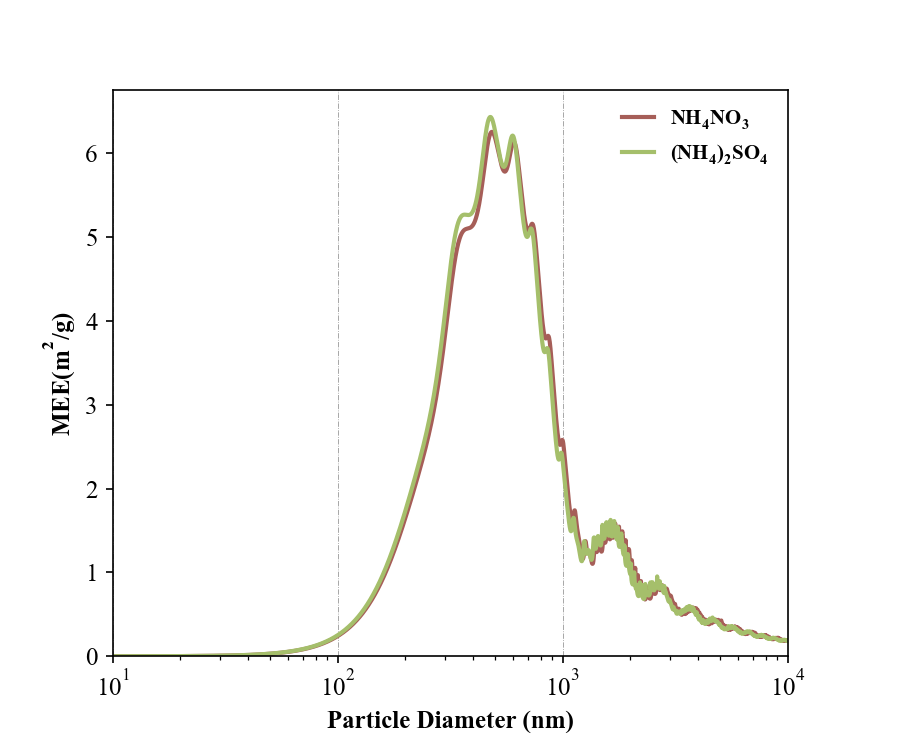
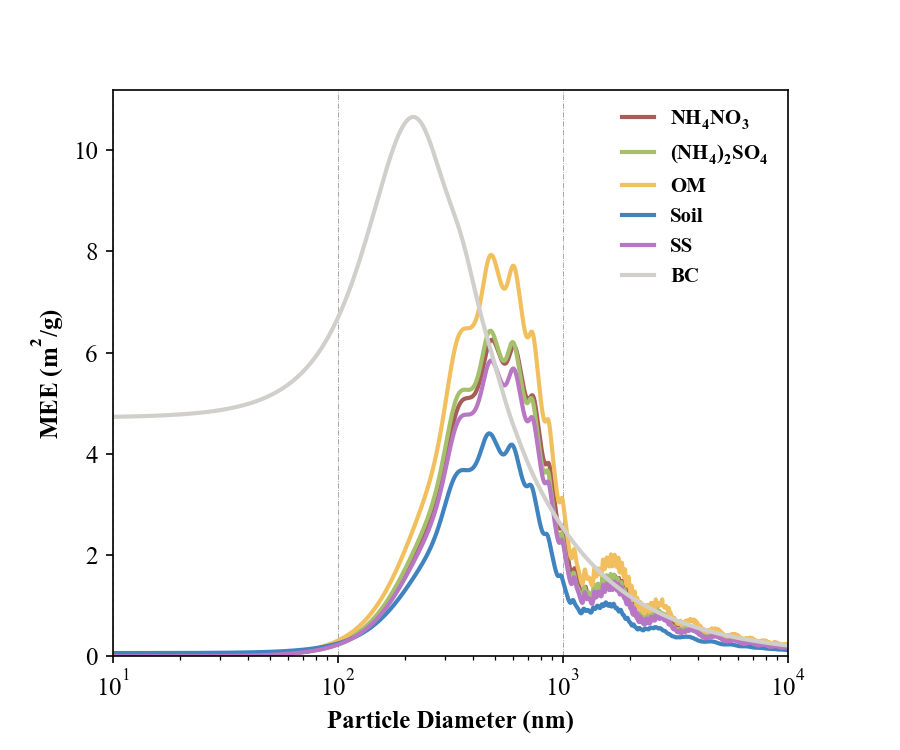
update

diff --git a/DataPlot/plot/optical/optical.py b/DataPlot/plot/optical/optical.py
@@ -16,7 +16,6 @@ __all__ = ['Q_plot',
            'response_surface',
            ]
 
-
 mapping_dic = {'AS': {'m': 1.53 + 0j, 'density': 1.73, 'label': fr'$NH_{4}NO_{3}$', 'color': '#A65E58'},
                'AN': {'m': 1.55 + 0j, 'density': 1.77, 'label': fr'$(NH_{4})_{2}SO_{4}$', 'color': '#A5BF6B'},
                'OM': {'m': 1.54 + 0j, 'density': 1.40, 'label': 'OM', 'color': '#F2BF5E'},
@@ -27,7 +26,8 @@ mapping_dic = {'AS': {'m': 1.53 + 0j, 'density': 1.73, 'label': fr'$NH_{4}NO_{3}
 
 
 @set_figure
-def Q_plot(species: Literal["AS", "AN", "OM", "Soil", "SS", "BC", "Water"] | list[Literal["AS", "AN", "OM", "Soil", "SS", "BC", "Water"]],
+def Q_plot(species: Literal["AS", "AN", "OM", "Soil", "SS", "BC", "Water"] | list[
+    Literal["AS", "AN", "OM", "Soil", "SS", "BC", "Water"]],
            x: Literal["dp", "sp"] = 'dp',
            y: Literal["Q", "MEE"] = "Q",
            mode: Literal["ext", "sca", "abs"] = 'ext',
@@ -73,14 +73,14 @@ def Q_plot(species: Literal["AS", "AN", "OM", "Soil", "SS", "BC", "Water"] | lis
     mode_mapping = {'ext': 0, 'sca': 1, 'abs': 2}
 
     xlabel_mapping = {'dp': 'Particle Diameter (nm)',
-                      'sp': '$Size parameter (\\alpha)$'}
+                      'sp': 'Size parameter (\\alpha)'}
 
-    ylabel_mapping = {'Q': {'ext': '$Extinction efficiency (Q_{{ext}})$',
-                            'sca': '$Scattering efficiency (Q_{{sca}})$',
-                            'abs': '$Absorption efficiency (Q_{{abs}})$'},
-                      'MEE': {'ext': '$MEE (m^2/g)$',
-                              'sca': '$MSE (m^2/g)$',
-                              'abs': '$MAE (m^2/g)$'}}
+    ylabel_mapping = {'Q': {'ext': r'$Extinction\ efficiency\ (Q_{ext})$',
+                            'sca': r'$Scattering\ efficiency\ (Q_{sca})$',
+                            'abs': r'$Absorption\ efficiency\ (Q_{abs})$'},
+                      'MEE': {'ext': r'$MEE\ (m^{2}/g)$',
+                              'sca': r'$MSE\ (m^{2}/g)$',
+                              'abs': r'$MAE\ (m^{2}/g)$'}}
 
     typ = mode_mapping.get(mode, None)
     xlabel = xlabel_mapping.get(x, None)
@@ -335,6 +335,7 @@ def response_surface(real_range=(1.33, 1.7),
     >>> response_surface(real_range=(1.4, 1.6), gmd_range=(100, 300), num=30, xlabel='Real Part (n)',
     ...                  ylabel='GMD (nm)', zlabel='Extinction (1/Mm)', title='Sensitivity Tests of Extinction')
     """
+
     def function(RI, GMD):
         Z = np.zeros_like(RI)  # 使用 np.zeros_like 可以確保 Z 和 RI 具有相同的形狀
 
@@ -372,6 +373,8 @@ def response_surface(real_range=(1.33, 1.7),
 
 
 if __name__ == '__main__':
-    # Q_plot(['AS', 'AN'], x='dp', y='MEE')
+    Q_plot(['AS', 'AN', 'OM', 'Soil', 'SS', 'BC'], x='dp', y='MEE')
+    Q_plot(['AS', 'AN', 'OM', 'Soil', 'SS', 'BC'], x='dp', y='Q')
+
     # RI_couple()
-    response_surface()
+    # response_surface()

diff --git a/DataPlot/process/script/PSD.py b/DataPlot/process/script/PSD.py
@@ -1,6 +1,6 @@
 from pathlib import Path
 
-import pandas as pd
+from pandas import concat, read_csv
 
 from DataPlot.process.core import *
 from DataPlot.process.script.SizeDist import SizeDist
@@ -42,11 +42,11 @@ class ParticleSizeDistProcessor(DataProcessor):
         self.psd = SizeDist(filename)
 
     def process_data(self, reset: bool = False, save_filename: Path | str = 'PSD.csv'):
-        # file = self.file_path / save_filename
-        # if file.exists() and not reset:
-        #     return read_csv(file, parse_dates=['Time']).set_index('Time')
+        file = self.file_path / save_filename
+        if file.exists() and not reset:
+            return read_csv(file, parse_dates=['Time']).set_index('Time')
 
-        result_df = pd.concat([
+        result_df = concat([
             SizeDist(data=self.psd.number(), weighting='n').properties(),
             SizeDist(data=self.psd.surface(save_filename=self.file_path / 'PSSD_dSdlogdp.csv'),
                      weighting='s').properties(),
@@ -71,11 +71,11 @@ class ExtinctionDistProcessor(DataProcessor):
                                               'ALWC_volume_ratio']]
 
     def process_data(self, reset: bool = False, save_filename: str | Path = 'PESD.csv'):
-        # file = self.file_path / save_filename
-        # if file.exists() and not reset:
-        #     return read_csv(file, parse_dates=['Time']).set_index('Time')
+        file = self.file_path / save_filename
+        if file.exists() and not reset:
+            return read_csv(file, parse_dates=['Time']).set_index('Time')
 
-        result_df = pd.concat([
+        result_df = concat([
             SizeDist(data=self.psd.extinction(self.RI, method='internal', result_type='extinction',
                                               save_filename=self.file_path / 'PESD_dextdlogdp_internal.csv'),
                      weighting='ext_in').properties(),
@@ -89,5 +89,5 @@ class ExtinctionDistProcessor(DataProcessor):
 
 
 if __name__ == '__main__':
-    df = ParticleSizeDistProcessor(filename='PNSD_dNdlogdp.csv').process_data(reset=True)
+    df = ParticleSizeDistProcessor(filename='PNSD_dNdlogdp.csv').process_data(reset=False)
     # df = ExtinctionDistProcessor(filename='PNSD_dNdlogdp.csv').process_data(reset=True)

diff --git a/DataPlot/process/script/PSD_dry.py b/DataPlot/process/script/PSD_dry.py
@@ -53,7 +53,7 @@ class DryPSDProcessor(DataProcessor):
 
 def dry_PNSD_process(dist, dp, **kwargs):
     ndp = np.array(dist[:np.size(dp)])
-    gRH = resolved_gRH(np.size(dp), dist['gRH'], uniform=True)
+    gRH = resolved_gRH(dp, dist['gRH'], uniform=True)
 
     dry_dp = dp / gRH
     belong_which_ibin = np.digitize(dry_dp, dp) - 1
@@ -71,13 +71,13 @@ def dry_PNSD_process(dist, dp, **kwargs):
     return np.array(dry_ndp)
 
 
-def resolved_gRH(length, gRH=1.31, uniform=True):
+def resolved_gRH(dp, gRH=1.31, uniform=True):
     if uniform:
-        return np.array([gRH] * length)
+        return np.array([gRH] * dp.size)
 
     else:
         lognorm_dist = lambda x, geoMean, geoStd: (gRH / (np.log10(geoStd) * np.sqrt(2 * np.pi))) * np.exp(-(x - np.log10(geoMean))**2 / (2 * np.log10(geoStd)**2))
-        abc = lognorm_dist(np.log10(dp/1000), 0.5, 2.0)
+        abc = lognorm_dist(np.log10(dp), 200, 2.0)
         return np.where(abc < 1, 1, abc)
 
 

diff --git a/README.md b/README.md
@@ -45,21 +45,26 @@
 |                  **PNSD**                   |                  **PSSD**                   |                  **PVSD**                   |
 |:-------------------------------------------:|:-------------------------------------------:|:-------------------------------------------:|
 |   ![PNSD](assets/figure/PNSD_heatmap.png)   |   ![PSSD](assets/figure/PSSD_heatmap.png)   |   ![PVSD](assets/figure/PVSD_heatmap.png)   |
-| ![PNSD](assets/figure/PNSD_heatmap_tms.png) | ![PSSD](assets/figure/PSSD_heatmap_tms.png) | ![PVSD](assets/figure/PVSD_heatmap_tms.png) |
 
-|                 **Three_dimension**                  |                       ****                       |                 ****                  |                     ****                      |
-|:----------------------------------------------------:|:------------------------------------------------:|:-------------------------------------:|:---------------------------------------------:|
-|         ![PSD 3D](assets/figure/psd_3D.png)          |                                                  |                                       |
-|                   **Pie & Donut**                    |                    **Dounts**                    |              **BarPlot**              |         **Mutiply Linear Regression**         |
-|  ![IMPROVE donuts](assets/figure/IMPROVE_donut.png)  | ![IMPROVE bar](assets/figure/IMPROVE_donuts.png) |                                       | ![IMPROVE MLR](assets/figure/IMPROVE_MLR.png) |
-|                **Correlation Matrix**                |                    **Mie_Q**                     |              **Scatter**              |                                               |
-| ![Correlation Matrix](assets/figure/corr_matrix.png) |                 | ![scatter](assets/figure/scatter.png) |                                               |
+|               **TimeSeries**                |
+|:-------------------------------------------:|
+| ![PNSD](assets/figure/PNSD_heatmap_tms.png) |
+| ![PSSD](assets/figure/PSSD_heatmap_tms.png) |
+| ![PVSD](assets/figure/PVSD_heatmap_tms.png) |
+
+### <div align="center">For some basic plot</div>
+
+|                **Three_dimension**                 |                **Correlation Matrix**                |         **Mutiply Linear Regression**         |
+|:--------------------------------------------------:|:----------------------------------------------------:|:---------------------------------------------:|
+|        ![PSD 3D](assets/figure/psd_3D.png)         | ![Correlation Matrix](assets/figure/corr_matrix.png) | ![IMPROVE MLR](assets/figure/IMPROVE_MLR.png) |
+|                  **Pie & Donut**                   |                      **Dounts**                      |                  **Scatter**                  |
+| ![IMPROVE donuts](assets/figure/IMPROVE_donut.png) |   ![IMPROVE bar](assets/figure/IMPROVE_donuts.png)   |     ![scatter](assets/figure/scatter.png)     |
 
 ### <div align="center">For "PyMieScatt"</div>
 
-|                  **Mie_Q**                   |              **Mie_MEE**              |
-|:-------------------------------------------:|:-------------------------------------:|
-|   ![Mie Q](assets/figure/Mie_Q.png)   | ![Mie MEE](assets/figure/Mie_MEE.png) |     |
+|             **Mie_Q**             |              **Mie_MEE**              |
+|:---------------------------------:|:-------------------------------------:|
+| ![Mie Q](assets/figure/Mie_Q.png) | ![Mie MEE](assets/figure/Mie_MEE.png) |     |
 
 
 
